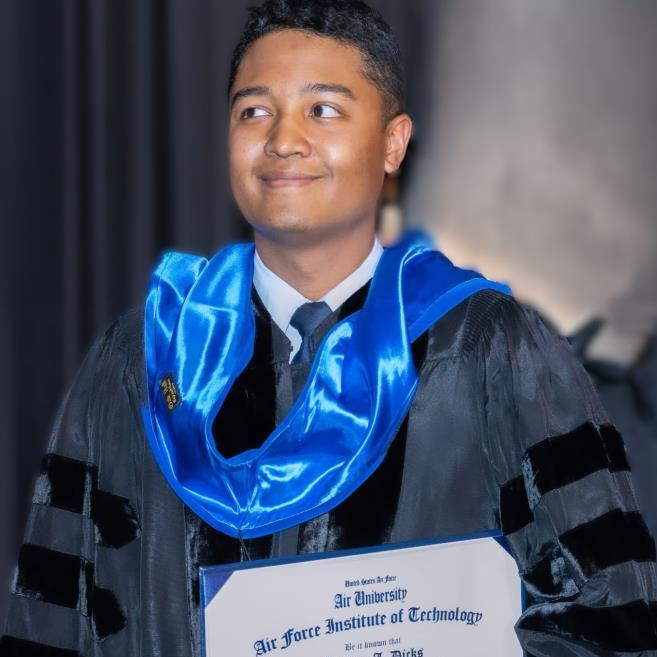
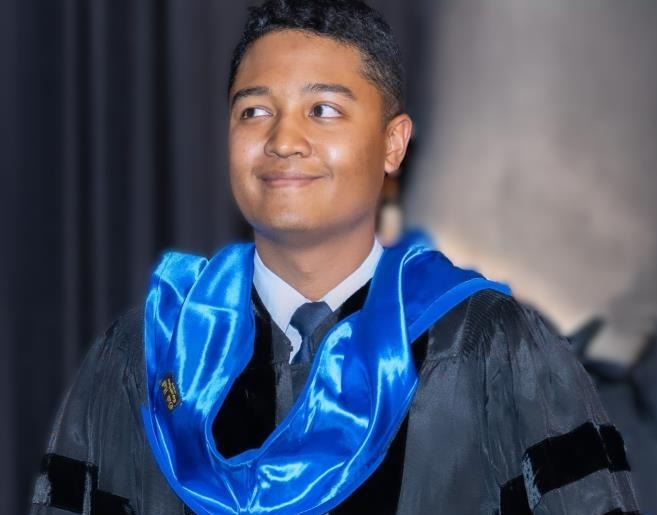
Remove diploma/last name from profile photo; fix military ethics compliance
- Crop dr-preston.jpg to remove diploma and 'Dicks' surname visible at bottom
- Replace 'Military Veteran'/'USAF Veteran'/'Air Force veteran' with 'U.S. Air Force Officer' throughout (active duty ≠ veteran)
- Remove 'Captain' rank from about page credential list (no rank leveraging)
- Remove 'active Air Force officer' as a FAQ selling point; replaced with PhD credentials
- Fix community/index.html 'USAF veteran' → 'Air Force officer'

diff --git a/index.html b/index.html
@@ -4,7 +4,7 @@
 <meta charset="UTF-8">
 <meta name="viewport" content="width=device-width, initial-scale=1.0">
 <title>PhD Expert Tutoring — AFOQT · SAT/ACT · Physics · Math · ML/AI | FissionLab</title>
-<meta name="description" content="Expert 1-on-1 tutoring from a PhD Nuclear Engineer and military veteran. AFOQT prep, SAT/ACT, Physics, Math, Machine Learning. Book a free intro call today.">
+<meta name="description" content="Expert 1-on-1 tutoring from a PhD Nuclear Engineer and nuclear physicist. AFOQT prep, SAT/ACT, Physics, Math, Machine Learning. Book a free intro call today.">
 <link rel="canonical" href="https://fissionlab.net/">
 <!-- Replace SEARCH_CONSOLE_ID with verification code from search.google.com/search-console -->
 <meta name="google-site-verification" content="SEARCH_CONSOLE_ID">
@@ -919,12 +919,12 @@ footer a:hover{color:var(--gold)}
 <!-- HERO -->
 <header class="hero">
   <div class="hero-inner">
-    <span class="hero-tag anim-1">Nuclear Physicist · AI/ML Engineer · Military Veteran</span>
+    <span class="hero-tag anim-1">Nuclear Physicist · AI/ML Engineer · U.S. Air Force Officer</span>
     <h1 class="anim-2">
       Precision tutoring.<br><em>Real expertise.</em>
     </h1>
     <p class="hero-sub anim-3">
-      Expert 1-on-1 instruction in AFOQT prep, SAT/ACT, Physics, Math, and Machine Learning — from a PhD Nuclear Engineer and Air Force veteran who has used this knowledge in the field.
+      Expert 1-on-1 instruction in AFOQT prep, SAT/ACT, Physics, Math, and Machine Learning — from a PhD Nuclear Engineer who has applied this knowledge in the field.
     </p>
     <div class="hero-btns anim-4">
       <a href="https://calendly.com/preston-j-dicks/introductory-meeting" target="_blank" class="btn-primary">Book Free Intro →</a>
@@ -1299,7 +1299,7 @@ footer a:hover{color:var(--gold)}
 
       <div class="about-bio fade-up">
         <div class="about-name">Dr. Preston</div>
-        <div class="about-title-line">PhD · Nuclear Engineering · AFIT · USAF Veteran</div>
+        <div class="about-title-line">PhD · Nuclear Engineering · AFIT · U.S. Air Force Officer</div>
 
         <p>I'm a nuclear engineer, military officer, and educator with over a decade of experience helping students achieve goals they didn't think were possible. My path has taken me from the physics labs at <strong style="color:var(--white)">UC Berkeley</strong>, where I earned a Bachelor's in Physics, to the <strong style="color:var(--white)">Air Force Institute of Technology</strong>, where I earned both my M.S. (2022) and Ph.D. (2025) in Nuclear Engineering with expertise in applied Artificial Intelligence and Machine Learning.</p>
 
@@ -1330,7 +1330,7 @@ footer a:hover{color:var(--gold)}
           <div class="cred-item">
             <div class="cred-dot"></div>
             <div>
-              <div class="cred-text">U.S. Air Force Officer — Technical &amp; Leadership Roles · Veteran</div>
+              <div class="cred-text">U.S. Air Force Officer — Technical &amp; Leadership Roles · 6 Years Service</div>
             </div>
           </div>
           <div class="cred-item">
@@ -1469,7 +1469,7 @@ footer a:hover{color:var(--gold)}
     <div class="faq-list">
       <div class="faq-item">
         <div class="faq-question" onclick="toggleFaq(this)">How is this different from other tutoring platforms? <span class="faq-arrow">+</span></div>
-        <div class="faq-answer">You're working directly with a credentialed expert — a nuclear physicist and active Air Force officer — not a student or generalist tutor matched by an algorithm. Direct booking also means lower rates and faster scheduling.</div>
+        <div class="faq-answer">You're working directly with a credentialed expert — a PhD Nuclear Engineer and nuclear physicist — not a student or generalist tutor matched by an algorithm. Direct booking also means lower rates and faster scheduling.</div>
       </div>
       <div class="faq-item">
         <div class="faq-question" onclick="toggleFaq(this)">What does a typical session look like? <span class="faq-arrow">+</span></div>

diff --git a/community/about/index.html b/community/about/index.html
@@ -168,7 +168,7 @@ footer a{color:rgba(201,168,76,0.7);text-decoration:none;}footer a:hover{color:v
           </div>
           <div class="cred-item" style="display:flex;gap:12px;padding:10px 0;">
             <div style="width:6px;height:6px;border-radius:50%;background:var(--gold);flex-shrink:0;margin-top:9px;"></div>
-            <div><div style="font-size:15px;color:var(--white)">U.S. Air Force Captain · 6 Years of Service</div><div style="font-size:12px;color:rgba(240,235,224,0.5);margin-top:2px">Commissioned at 19 · Technical &amp; Leadership Roles</div></div>
+            <div><div style="font-size:15px;color:var(--white)">U.S. Air Force Officer · 6 Years of Service</div><div style="font-size:12px;color:rgba(240,235,224,0.5);margin-top:2px">Commissioned at 19 · Technical &amp; Leadership Roles</div></div>
           </div>
         </div>
       </div>

diff --git a/community/index.html b/community/index.html
@@ -185,7 +185,7 @@ footer a:hover{color:var(--gold)}
       <div class="value-card fade-up">
         <span class="value-icon">📚</span>
         <div class="value-title">Expert Resources</div>
-        <div class="value-desc">Comprehensive guides covering all 12 AFOQT subtests — written by a PhD and USAF veteran who's been through it.</div>
+        <div class="value-desc">Comprehensive guides covering all 12 AFOQT subtests — written by a PhD and Air Force officer who's been through it.</div>
       </div>
       <div class="value-card fade-up">
         <span class="value-icon">💬</span>
